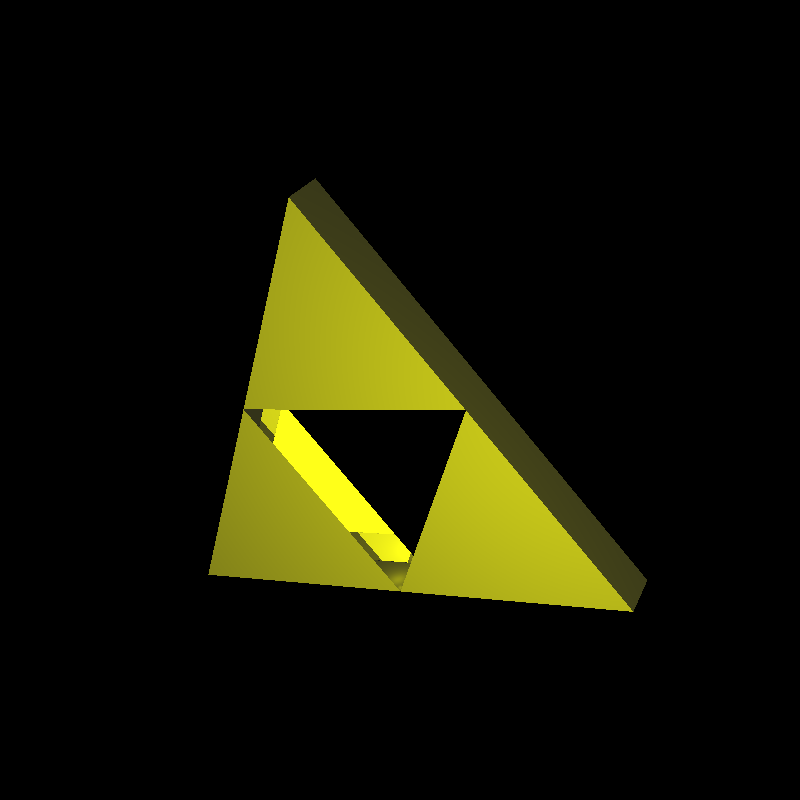
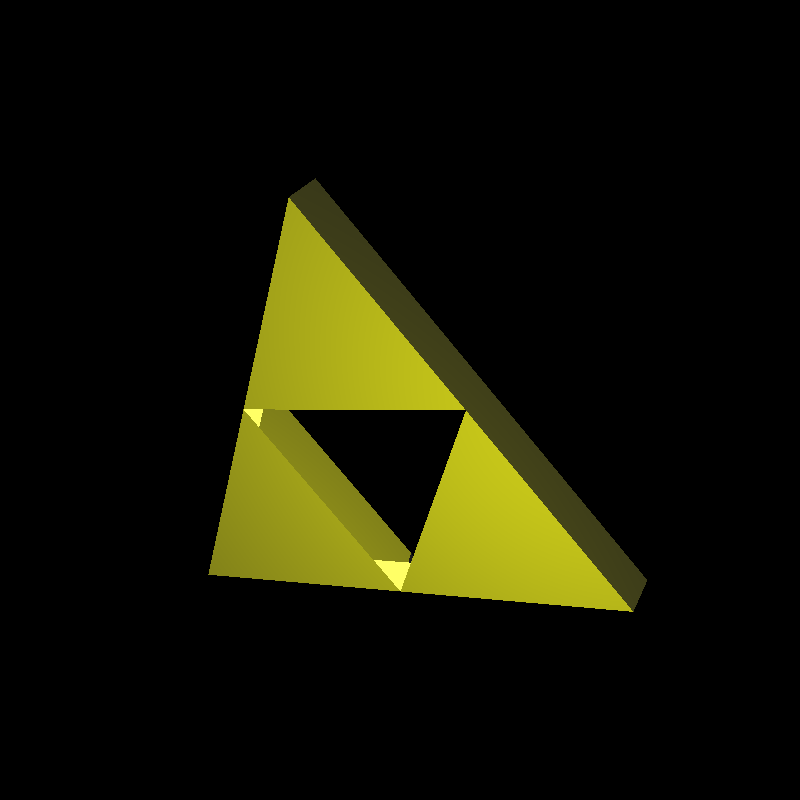
rewriting our whole scene setup, to parse obj files and use a slightly more efficient scene class

Changed region(s): [[0.3125, 0.5, 0.5312, 0.75]]

diff --git a/as4/classes.cpp b/as4/classes.cpp
@@ -251,7 +251,12 @@ float Triangle::ray_intersect ( Ray r) {
 	vec4 raypos = imat*r.pos;
 	vec4 raydir = imat*r.dir;
 	raydir.normalize();
-	float t;		
+	float t;
+	
+	if (normal() * raydir == 0) {
+		return -1;
+	}		
+	
 	
 	vec4 a = v2-v3;
 	vec4 b = v1-v3;
@@ -284,7 +289,7 @@ vec4 Triangle::normal(vec4 surface) {
 }
 
 vec4 Triangle::normal() {
-	vec4 n = tmat*vec4((v1-v3).dehomogenize()^(v2-v3).dehomogenize(),0);
+	vec4 n = tmat * vec4((v1-v3).dehomogenize()^(v2-v3).dehomogenize(),0);	
 	n.normalize();
 	
 	return n;

diff --git a/as4/include/classes.h b/as4/include/classes.h
@@ -46,18 +46,22 @@ public:
 	int h;
 };
 
-class PLight {
+class Light {
+public:
+	vec3 intensity;
+	vec4 lightVector(vec4 pos);
+};
+
+class PLight: public Light {
 public:
 	PLight(vec4, vec3);
 	vec4 pos;
-	vec3 intensity;
 };
 
-class DLight {
+class DLight: public Light {
 public:
 	DLight(vec4 , vec3 );
 	vec4 dir;
-	vec3 intensity;	
 };
 
 class Material {
